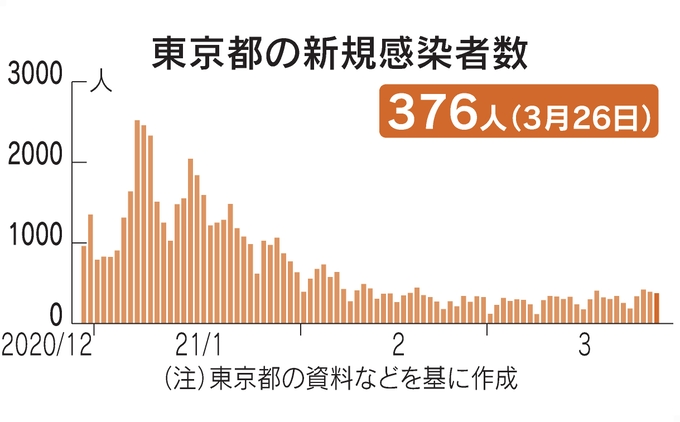
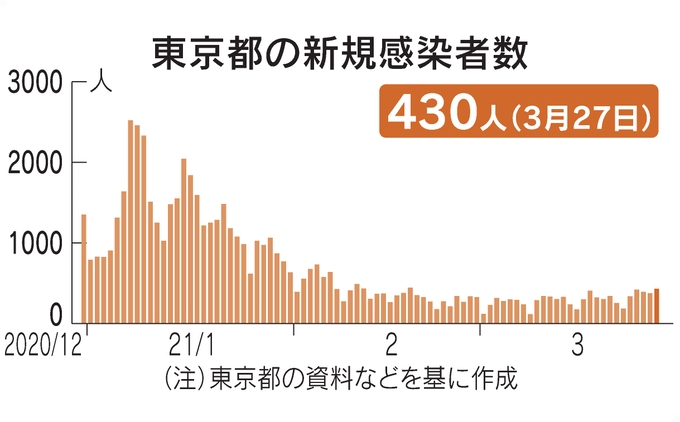
update cvs

diff --git a/music.php b/music.php
@@ -383,10 +383,12 @@
         </div>
 
 
-        <!--テンプレ <div id="202103XX"></div>
+       
+
+        <!-- テンプレ<div id="202103X"></div>
           <!- XX ->
           <div>
-            <p><small> 2021年03月XX日</small></p>
+            <p><small> 2021年03月X日</small></p>
 
             <h4> / <i class="fas fa-headphones-alt"></i></h4>
 
@@ -404,68 +406,109 @@
           </div>
           <hr> -->
 
-        <!--テンプレ <div id="20210328"></div>
-          <!- XX ->
+        <!-- <div id="202103X"></div>
+          <!- Wave 1 / Com Truise ->
+          <div>
+            <p><small> 2021年03月X日</small></p>
+
+            <h4>Wave 1 / Com Truise<i class="fas fa-headphones-alt"></i></h4>
+
+            <i class="far fa-file-audio file"></i>
+            <a href="https://amzn.to/3tWAZYW" target="blank" rel="noopener">PLAY</a><i class="fas fa-play play"></i>
+            <br><br>
+            <em2>
+              時間： 4:02
+              <br>
+              ジャンル： エレクトロニカ
+              <br>
+              レーベル： Ghostly International
+            </em2>
+            <br><br>
+          </div>
+          <hr> -->
+
+        <!-- <div id="202103X"></div>
+          <!- Talamak / トロ・イ・モワ ->
+          <div>
+            <p><small> 2021年03月X日</small></p>
+
+            <h4>Talamak / トロ・イ・モワ<i class="fas fa-headphones-alt"></i></h4>
+
+            <i class="far fa-file-audio file"></i>
+            <a href="https://amzn.to/3csGAAl" target="blank" rel="noopener">PLAY</a><i class="fas fa-play play"></i>
+            <br><br>
+            <em2>
+              時間： 2:27
+              <br>
+              ジャンル： オルタナティヴ・ロック
+              <br>
+              レーベル： Company Studio
+            </em2>
+            <br><br>
+          </div>
+          <hr> -->
+
+           <!-- <div id="20210329"></div>
+          <!- Feel It All Around / Washed Out ->
+          <div>
+            <p><small> 2021年03月29日</small></p>
+
+            <h4>Feel It All Around / Washed Out<i class="fas fa-headphones-alt"></i></h4>
+
+            <i class="far fa-file-audio file"></i>
+            <a href="https://amzn.to/3swfrC0" target="blank" rel="noopener">PLAY</a><i class="fas fa-play play"></i>
+            <br><br>
+            <em2>
+              時間： 3:12
+              <br>
+              ジャンル： エレクトロニカ
+              <br>
+              レーベル： Washed Out
+            </em2>
+            <br><br>
+          </div>
+          <hr> -->
+
+        <!-- <div id="20210328"></div>
+          <!- Gravity / Lusine ->
           <div>
             <p><small> 2021年03月28日</small></p>
 
-            <h4> / <i class="fas fa-headphones-alt"></i></h4>
+            <h4>Gravity / Lusine<i class="fas fa-headphones-alt"></i></h4>
 
             <i class="far fa-file-audio file"></i>
-            <a href="X" target="blank" rel="noopener">PLAY</a><i class="fas fa-play play"></i>
+            <a href="https://amzn.to/39kfnxM" target="blank" rel="noopener">PLAY</a><i class="fas fa-play play"></i>
             <br><br>
             <em2>
-              時間： X
+              時間： 5:09
               <br>
-              ジャンル： X
+              ジャンル： エレクトロニカ
               <br>
-              レーベル： X
+              レーベル： Ghostly International
             </em2>
             <br><br>
           </div>
           <hr> -->
-
-        <!--テンプレ <div id="20210327"></div>
-          <!- XX ->
-          <div>
-            <p><small> 2021年03月27日</small></p>
-
-            <h4> / <i class="fas fa-headphones-alt"></i></h4>
-
-            <i class="far fa-file-audio file"></i>
-            <a href="X" target="blank" rel="noopener">PLAY</a><i class="fas fa-play play"></i>
-            <br><br>
-            <em2>
-              時間： X
-              <br>
-              ジャンル： X
-              <br>
-              レーベル： X
-            </em2>
-            <br><br>
-          </div>
-          <hr> -->
-
 
 
         <h2>今日の1曲<i class="fas fa-music"></i></h2>
 
-        <div id="20210326"></div>
-        <!-- <!- いのち（TOSHIKI HAYASHI (%C) remix） [feat. ラブリーサマーちゃん] / 泉まくら & TOSHIKI HAYASHI(%C) -> -->
+        <div id="20210327"></div>
+        <!-- <!- ワイド・オープン / ケミカル・ブラザーズ -> -->
         <div>
-          <p><small> 2021年03月26日</small></p>
+          <p><small> 2021年03月27日</small></p>
 
-          <h4>いのち（TOSHIKI HAYASHI (%C) remix） [feat. ラブリーサマーちゃん] / 泉まくら & TOSHIKI HAYASHI(%C)<i class="fas fa-headphones-alt"></i></h4>
+          <h4>ワイド・オープン / ケミカル・ブラザーズ<i class="fas fa-headphones-alt"></i></h4>
 
           <i class="far fa-file-audio file"></i>
-          <a href="https://amzn.to/2NxSmzE" target="blank" rel="noopener">PLAY</a><i class="fas fa-play play"></i>
+          <a href="https://amzn.to/3cqOdqY" target="blank" rel="noopener">PLAY</a><i class="fas fa-play play"></i>
           <br><br>
           <em2>
-            時間： 4:06
+            時間： 5:53
             <br>
-            ジャンル： ヒップホップ
+            ジャンル： ダンス・エレクトロニカ
             <br>
-            レーベル： 術ノ穴
+            レーベル： EMI
           </em2>
           <br><br>
         </div>
@@ -478,6 +521,27 @@
           <label for="select-music">OPEN</label>
 
           <div class="accshow">
+
+            <div id="20210326"></div>
+            <!-- <!- いのち（TOSHIKI HAYASHI (%C) remix） [feat. ラブリーサマーちゃん] / 泉まくら & TOSHIKI HAYASHI(%C) -> -->
+            <div>
+              <p><small> 2021年03月26日</small></p>
+
+              <h4>いのち（TOSHIKI HAYASHI (%C) remix） [feat. ラブリーサマーちゃん] / 泉まくら & TOSHIKI HAYASHI(%C)<i class="fas fa-headphones-alt"></i></h4>
+
+              <i class="far fa-file-audio file"></i>
+              <a href="https://amzn.to/2NxSmzE" target="blank" rel="noopener">PLAY</a><i class="fas fa-play play"></i>
+              <br><br>
+              <em2>
+                時間： 4:06
+                <br>
+                ジャンル： ヒップホップ
+                <br>
+                レーベル： 術ノ穴
+              </em2>
+              <br><br>
+            </div>
+            <hr>
 
             <div id="20210325"></div>
             <!-- <!- ALICE feat. kiki vivi lily / 中小企業 -> -->

diff --git a/english-daily-conversation.php b/english-daily-conversation.php
@@ -75,6 +75,7 @@
                   <li> <a href="#beginner2"><i class="fas fa-globe"></i>初級（連結音）</a></li>
                   <li> <a href="#intermediate2"><i class="fas fa-globe"></i>中級（連結音）</a></li>
                   <li> <a href="#beginner3"><i class="fas fa-globe"></i>初級（同化音）</a></li>
+                  <li> <a href="#intermediate3"><i class="fas fa-globe"></i>中級（同化音）</a></li>
                   <li> <a href="#relations"><i class="fab fa-amazon"></i> RELATIONS</a></li>
                   <li> <a href="#recommend"><i class="fab fa-amazon"></i> しらひゅー推し</a></li>
                 </ol>
@@ -4478,6 +4479,125 @@
                 </tr>
                 <tr>
                   <td colspan="2">keyboardのdとその後のyou’reが同化して「キーボーヂュア」のように聞こえます。</td>
+                </tr>
+
+                <tr>
+                  <td>390</td>
+                  <td>Just try the best you can.</td>
+                </tr>
+                <tr>
+                  <td colspan="2">ただ最善を尽くしてみてください。</td>
+                </tr>
+                <tr>
+                  <td colspan="2">bestのtとその後のyouが同化して「ベスチュ」のように聞こえます。</td>
+                </tr>
+
+                <tr>
+                  <td>391</td>
+                  <td>That’s a beautiful dress you’re wearing.</td>
+                </tr>
+                <tr>
+                  <td colspan="2">あなたが着ているドレスは美しいですね。</td>
+                </tr>
+                <tr>
+                  <td colspan="2">dressのsとその後のyouが同化して「ドレシュ」のように聞こえます。</td>
+                </tr>
+                <tr>
+                  <td>392</td>
+                  <td>Let me know when you’re ready.</td>
+                </tr>
+                <tr>
+                  <td colspan="2">準備ができたら知らせてください。</td>
+                </tr>
+                <tr>
+                  <td colspan="2">whenのnとその後のyou’reが同化して「ホウェニュア」のように聞こえます。</td>
+                </tr>
+              </tbody>
+            </table>
+
+
+                <div id="intermediate3"></div>
+            <table class="table">
+              <tbody>
+                <tr>
+                  <th colspan="2" class="class">中級（同化音）</th>
+                </tr>
+
+                <tr>
+                  <td>393</td>
+                  <td>Are these your car keys on the table?</td>
+                </tr>
+                <tr>
+                  <td colspan="2">テーブルの上にあるのはあなたの車の鍵ですか。</td>
+                </tr>
+                <tr>
+                  <td colspan="2">theseのseとその後のyourが同化して「ジージュア」のように聞こえます。</td>
+                </tr>
+
+                <tr>
+                  <td>394</td>
+                  <td>If this is your car,you will need to move it.</td>
+                </tr>
+                <tr>
+                  <td colspan="2">これがあなたの車なら移動する必要があります。</td>
+                </tr>
+                <tr>
+                  <td colspan="2">isのsとその後のyourが同化して「イジュア」のように聞こえます。</td>
+                </tr>
+
+                <tr>
+                  <td>395</td>
+                  <td>Isn’t that your facility on the news?</td>
+                </tr>
+                <tr>
+                  <td colspan="2">ニュースに出ているのはあなたの施設ではないですか。</td>
+                </tr>
+                <tr>
+                  <td colspan="2">thatのtとその後のyourが同化して「ザッチュア」のように聞こえます。</td>
+                </tr>
+
+                <tr>
+                  <td>396</td>
+                  <td>Watch out for the vehicle on your right.</td>
+                </tr>
+                <tr>
+                  <td colspan="2">あなたの右側にある車に気を付けてください。</td>
+                </tr>
+                <tr>
+                  <td colspan="2">onのnとその後のyourが同化して「オニュア」のように聞こえます。</td>
+                </tr>
+
+                <tr>
+                  <td>397</td>
+                  <td>Write your nationality in the top left box.</td>
+                </tr>
+                <tr>
+                  <td colspan="2">上部左にある四角の中にあなたの国籍を記入してください。</td>
+                </tr>
+                <tr>
+                  <td colspan="2">Writeのteとその後のyourが同化して「ライチュア」のように聞こえます。</td>
+                </tr>
+
+                <tr>
+                  <td>398</td>
+                  <td>The teacher has marked the exam you took.</td>
+                </tr>
+                <tr>
+                  <td colspan="2">先生はあなたが受けた試験にマークをしました。</td>
+                </tr>
+                <tr>
+                  <td colspan="2">examのmとその後のyouが同化して「イグザミュ」のように聞こえます。</td>
+                </tr>
+
+                <tr>
+                  <td>399</td>
+                  <td>She wrote you an impressive reference letter.</td>
+                </tr>
+                <tr>
+                  <td colspan="2">彼女はあなたに素晴らしい推薦状を書いてくれました。</td>
+                </tr>
+                <tr>
+                  <td colspan="2">wroteのteとその後のyouが同化して「ローチュ」のように聞こえます。</td>
                 </tr>
                 
 

diff --git a/parts/info.php b/parts/info.php
@@ -2,14 +2,22 @@
 
   <div class="line"> INFO <i class="fas fa-info-circle"></i></div>
 
+  <li>2021年03月27日</li>
+  <div class="info-children">
+    <span><a href="english-daily-conversation.php">ENGLISH（CVS同化音中級）</a> 390～399 追加</span>
+  </div>
+
+  <li>2021年03月26日</li>
+  <div class="info-children"><span><a href="gallery.php">PHOTO</a>（新宿御苑）追加</span></div>
+
   <li>2021年03月24日</li>
   <div class="info-children">
-    <span><a href="english-daily-conversation.php">ENGLISH（CVS同化音初級）</a> 376～389追加</span>
+    <span><a href="english-daily-conversation.php">ENGLISH（CVS同化音初級）</a> 376～389 追加</span>
   </div>
 
   <li>2021年03月23日</li>
   <div class="info-children">
-    <span><a href="movie.php">MOVIE</a> 更新（Fukushima 50）</span>
+    <span><a href="movie.php">MOVIE</a>（Fukushima 50）追加</span>
   </div>
 
   <li>2021年03月22日</li>
@@ -24,7 +32,7 @@
   </div>
 
   <li>2021年03月20日</li>
-  <div class="info-children"><span><a href="diary.php">DIARY（抽選）</a> 更新</span></div>
+  <div class="info-children"><span><a href="diary.php">DIARY（抽選）</a> 追加</span></div>
 
   <li>2021年03月16日</li>
   <div class="info-children">

diff --git a/parts/news.php b/parts/news.php
@@ -46,6 +46,25 @@
         </li>
 
     <hr> -->
+        2021年03月27日
+    
+        <li>
+                <i class="far fa-file-alt"></i>
+                <a href="https://www.nikkei.com/article/DGXZQODG270JX0X20C21A3000000/" target="blank" rel="noopener">
+                東京都、新たに430人感染　新型コロナ</a>
+        </li>
+        <li>
+                <i class="far fa-file-alt"></i>
+                <a href="https://www.nikkei.com/article/DGKKZO70411400X20C21A3EA1000/" target="blank" rel="noopener">
+                地方で感染急拡大 宮城、複数指標ステージ4　全国2000人超す</a>
+        </li>
+        <li>
+                <i class="far fa-file-alt"></i>
+                <a href="https://www.nikkei.com/article/DGXZQOFH227ME0S1A120C2000000/" target="blank" rel="noopener">
+                「ノグチ」が救うガーナのコロナ　英世との縁、今も</a>
+        </li>
+
+    <hr>
         2021年03月26日
     
         <li>
